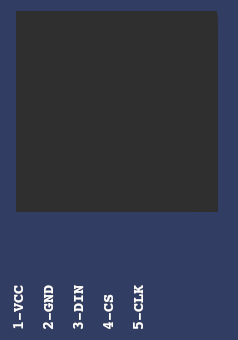
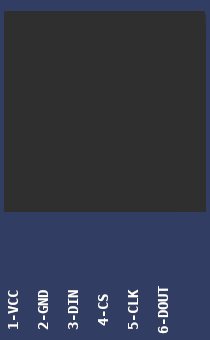
new: LED matrix serial output and angle support added

diff --git a/src/parts/part_LED_matrix.cc b/src/parts/part_LED_matrix.cc
@@ -31,7 +31,7 @@
 /* outputs */
 enum
 {
- O_P1, O_P2, O_P3, O_F1, O_F2, O_LED
+ O_P1, O_P2, O_P3, O_P4, O_F1, O_F2, O_LED
 };
 
 cpart_led_matrix::cpart_led_matrix(unsigned x, unsigned y)
@@ -45,6 +45,7 @@ cpart_led_matrix::cpart_led_matrix(unsigned x, unsigned y)
 
  image.LoadFile (Window1.GetSharePath () + lxT ("parts/") + GetPictureFileName ());
 
+ angle = 0;
 
  Bitmap = new lxBitmap (image, &Window5);
  image.Destroy ();
@@ -57,12 +58,15 @@ cpart_led_matrix::cpart_led_matrix(unsigned x, unsigned y)
  input_pins[1] = 0;
  input_pins[2] = 0;
 
-};
+ output_pins[0] = Window5.RegisterIOpin (lxT ("DOUT"));
+
+}
 
 cpart_led_matrix::~cpart_led_matrix(void)
 {
+ Window5.UnregisterIOpin (output_pins[0]);
  delete Bitmap;
- canvas.Destroy();
+ canvas.Destroy ();
 }
 
 void
@@ -91,6 +95,16 @@ cpart_led_matrix::Draw(void)
      else
       canvas.RotatedText (Window5.GetPinName (input_pins[output[i].id - O_P1]), output[i].x1, output[i].y2, 90.0);
      break;
+    case O_P4:
+     canvas.SetColor (49, 61, 99);
+     canvas.Rectangle (1, output[i].x1, output[i].y1, output[i].x2 - output[i].x1, output[i].y2 - output[i].y1);
+     canvas.SetFgColor (255, 255, 255);
+     if (output_pins[output[i].id - O_P4] == 0)
+      canvas.RotatedText ("NC", output[i].x1, output[i].y2, 90.0);
+     else
+      canvas.RotatedText (itoa (output_pins[output[i].id - O_P4]), output[i].x1, output[i].y2, 90.0);
+     break;
+     break;
     case O_F1:
      canvas.SetColor (49, 61, 99);
      canvas.Rectangle (1, output[i].x1, output[i].y1, output[i].x2 - output[i].x1, output[i].y2 - output[i].y1);
@@ -108,7 +122,7 @@ cpart_led_matrix::Draw(void)
      if (ldd.update)
       {
        canvas.SetColor (0, 90 + 40, 0);
-       ldd_max72xx_draw (&ldd, &canvas, output[i].x1, output[i].y1, output[i].x2 - output[i].x1, output[i].y2 - output[i].y1, 1);
+       ldd_max72xx_draw (&ldd, &canvas, output[i].x1, output[i].y1, output[i].x2 - output[i].x1, output[i].y2 - output[i].y1, 1, angle);
       }
      break;
     }
@@ -133,6 +147,7 @@ cpart_led_matrix::get_out_id(char * name)
  if (strcmp (name, "P1") == 0)return O_P1;
  if (strcmp (name, "P2") == 0)return O_P2;
  if (strcmp (name, "P3") == 0)return O_P3;
+ if (strcmp (name, "P4") == 0)return O_P4;
 
  if (strcmp (name, "F1") == 0)return O_F1;
  if (strcmp (name, "F2") == 0)return O_F2;
@@ -148,7 +163,7 @@ cpart_led_matrix::WritePreferences(void)
 {
  char prefs[256];
 
- sprintf (prefs, "%hhu,%hhu,%hhu", input_pins[0], input_pins[1], input_pins[2]);
+ sprintf (prefs, "%hhu,%hhu,%hhu,%hhu,%i", input_pins[0], input_pins[1], input_pins[2], output_pins[0], angle);
 
  return prefs;
 }
@@ -156,7 +171,13 @@ cpart_led_matrix::WritePreferences(void)
 void
 cpart_led_matrix::ReadPreferences(String value)
 {
- sscanf (value.c_str (), "%hhu,%hhu,%hhu", &input_pins[0], &input_pins[1], &input_pins[2]);
+ unsigned char outp;
+ sscanf (value.c_str (), "%hhu,%hhu,%hhu,%hhu,%i", &input_pins[0], &input_pins[1], &input_pins[2], &outp, &angle);
+
+
+ Window5.UnregisterIOpin (output_pins[0]);
+ output_pins[0] = Window5.RegisterIOpin (lxT ("DOUT"), outp);
+
  Reset ();
 }
 
@@ -195,6 +216,10 @@ cpart_led_matrix::ConfigurePropertiesWindow(CPWindow * wprop)
    spin = Window5.GetPinName (input_pins[2]);
    ((CCombo*) WProp_led_matrix->GetChildByName ("combo3"))->SetText (itoa (input_pins[2]) + "  " + spin);
   }
+ 
+ ((CLabel*) WProp_led_matrix->GetChildByName ("label6"))->SetText ("Pin 6 - Dout     "+itoa (output_pins[0]));
+  
+ ((CCombo*) WProp_led_matrix->GetChildByName ("combo4"))->SetText (itoa (angle));
 
  ((CButton*) WProp_led_matrix->GetChildByName ("button1"))->EvMouseButtonRelease = EVMOUSEBUTTONRELEASE & CPWindow5::PropButtonRelease;
  ((CButton*) WProp_led_matrix->GetChildByName ("button1"))->SetTag (1);
@@ -208,6 +233,7 @@ cpart_led_matrix::ReadPropertiesWindow(void)
  input_pins[0] = atoi (((CCombo*) WProp_led_matrix->GetChildByName ("combo1"))->GetText ());
  input_pins[1] = atoi (((CCombo*) WProp_led_matrix->GetChildByName ("combo2"))->GetText ());
  input_pins[2] = atoi (((CCombo*) WProp_led_matrix->GetChildByName ("combo3"))->GetText ());
+ angle = atoi (((CCombo*) WProp_led_matrix->GetChildByName ("combo4"))->GetText ());
 }
 
 void
@@ -215,9 +241,15 @@ cpart_led_matrix::Process(void)
 {
  const picpin * ppins = Window5.GetPinsValues ();
 
- if((input_pins[0] > 0)&&(input_pins[1] > 0)&&(input_pins[2] > 0))
- {
-  ldd_max72xx_io (&ldd, ppins[input_pins[0] - 1].value, ppins[input_pins[2] - 1].value, ppins[input_pins[1] - 1].value);
- }
+ if ((input_pins[0] > 0)&&(input_pins[1] > 0)&&(input_pins[2] > 0))
+  {
+   unsigned char out;
+   out = ldd_max72xx_io (&ldd, ppins[input_pins[0] - 1].value, ppins[input_pins[2] - 1].value, ppins[input_pins[1] - 1].value);
+
+   if (out != ppins[output_pins[0] - 1].value)
+    {
+     Window5.WritePin (output_pins[0], out);
+    }
+  }
 
 }

diff --git a/src/devices/ldd_max72xx.cc b/src/devices/ldd_max72xx.cc
@@ -38,6 +38,7 @@ ldd_max72xx_rst(ldd_max72xx_t *ldd)
  ldd->aclk = 1;
  ldd->update = 1;
  ldd->dat = 0;
+ ldd->dout = 0;
 }
 
 void
@@ -110,12 +111,17 @@ ldd_max72xx_io(ldd_max72xx_t *ldd, unsigned char din, unsigned char clk, unsigne
  //transicao
  if ((ldd->aclk == 0)&&(clk == 1))//rising edge
   {
-
+/*
    if (ldd->bc == 0)
     {
      ldd->dat = 0;
     }
-   ldd->dat |= din << (15 - ldd->bc);
+ *       ldd->dat |= din << (15 - ldd->bc);
+ */
+  
+   ldd->dout= (ldd->dat & 0x8000) > 0;
+   ldd->dat= (ldd->dat<<1) | din;
+   
    ldd->bc++;
 
    if (ldd->bc >= 16)//16 bits received
@@ -126,13 +132,13 @@ ldd_max72xx_io(ldd_max72xx_t *ldd, unsigned char din, unsigned char clk, unsigne
   }
 
  ldd->aclk = clk;
- return 1;
+ return ldd->dout;
 }
 
 void
-ldd_max72xx_draw(ldd_max72xx_t *ldd, CCanvas * canvas, int x1, int y1, int w1, int h1, int picpwr)
+ldd_max72xx_draw(ldd_max72xx_t *ldd, CCanvas * canvas, int x1, int y1, int w1, int h1, int picpwr, int angle)
 {
- int x, y;
+ int x, y, a, b;
 
  ldd->update = 0;
 
@@ -140,7 +146,31 @@ ldd_max72xx_draw(ldd_max72xx_t *ldd, CCanvas * canvas, int x1, int y1, int w1, i
   {
    for (y = 0; y < 8; y++)
     {
-     if (ldd->ram[x] & (1 << y))
+     switch (angle)
+      {
+      case 0:
+       a = 7 - x;
+       b = y;
+       break;
+      case 90:
+       a = y;
+       b = x;
+       break;
+      case 180:
+       a = x;
+       b = 7-y;
+       break;
+      case 270:
+       a = 7 - y;
+       b = 7 - x;
+       break;
+      default:
+       a = 7 - x;
+       b = y;
+       break;
+      }
+
+     if (ldd->ram[a] & (1 << (b)))
       {
        canvas->SetFgColor (250, 0, 0);
        canvas->SetColor (250, 0, 0);
@@ -150,7 +180,8 @@ ldd_max72xx_draw(ldd_max72xx_t *ldd, CCanvas * canvas, int x1, int y1, int w1, i
        canvas->SetFgColor (100, 100, 100);
        canvas->SetColor (100, 100, 100);
       }
-     canvas->Circle (1, x1 + (y * 25)+12, y1 + (x * 25)+12, 10);
+
+     canvas->Circle (1, x1 + (y * 25) + 12, y1 + (x * 25) + 12, 10);
     }
   }
 }

diff --git a/src/boards/board_4.h b/src/boards/board_4.h
@@ -109,7 +109,7 @@ class cboard_4:public board_pic
       void Draw(CDraw *draw,double scale);
       void Run_CPU(void);
 #ifdef _EXPERIMENTAL_
-      String GetSupportedDevices(void){return lxT("PIC16F777,PIC16F877A,PIC18F452,PIC18F4520,PIC18F4550,PIC18F45K50,PIC18F4620,");};
+      String GetSupportedDevices(void){return lxT("PIC16F1789,PIC16F1939,PIC16F777,PIC16F877A,PIC18F452,PIC18F4520,PIC18F4550,PIC18F45K50,PIC18F4620,");};
 #else
       String GetSupportedDevices(void){return lxT("PIC16F777,PIC16F877A,PIC18F452,PIC18F4520,PIC18F4550,PIC18F4620,");};
 #endif

diff --git a/src/devices/ldd_max72xx.h b/src/devices/ldd_max72xx.h
@@ -64,6 +64,7 @@ unsigned char ancs;
 int bc;
 unsigned short dat;
 unsigned char update;
+unsigned short dout;
 }ldd_max72xx_t;
 
 
@@ -73,7 +74,7 @@ void ldd_max72xx_update(ldd_max72xx_t *ldd);
 
 unsigned char ldd_max72xx_io(ldd_max72xx_t *ldd, unsigned char din, unsigned char clk, unsigned char ncs);
 
-void ldd_max72xx_draw(ldd_max72xx_t *ldd, CCanvas * canvas,int x1,int y1,int w1,int h1, int picpwr);
+void ldd_max72xx_draw(ldd_max72xx_t *ldd, CCanvas * canvas,int x1,int y1,int w1,int h1, int picpwr, int angle);
 
 
 #endif //LDD_MAX72XX

diff --git a/src/picsimlab5.cc b/src/picsimlab5.cc
@@ -604,7 +604,14 @@ CPWindow5::GetPinsNames(void)
 String
 CPWindow5::GetPinName(unsigned char pin)
 {
- return PinNames[pin];
+ if (pin < pboard->MGetPinCount ())
+  {
+   return PinNames[pin];
+  }
+ else
+  {
+   return PinNames[pin]+" "+itoa(pin);
+  }
 }
 
 const picpin *

diff --git a/src/parts/part_LED_matrix.h b/src/parts/part_LED_matrix.h
@@ -64,7 +64,9 @@ public:
     unsigned short get_out_id(char * name);
 private:
     unsigned char input_pins[3];
+    unsigned char output_pins[1];
     ldd_max72xx_t ldd;
+    int angle;
 };
 
 
